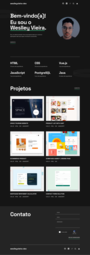
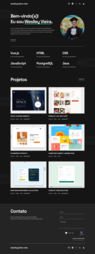
-fix images and description

diff --git a/code/src/components/Header.vue b/code/src/components/Header.vue
@@ -4,26 +4,52 @@
   <header>
     <span>weslleyvieira-dev</span>
     <div class="socials">
-      <a href="https://github.com/weslleyvieira-dev" target="_blank">
-        <img src="/assets/icons/github.svg" alt="GitHub" />
+      <a
+        href="https://github.com/weslleyvieira-dev"
+        target="_blank"
+        draggable="false"
+      >
+        <img src="/assets/icons/github.svg" alt="GitHub" draggable="false" />
       </a>
-      <a href="https://www.linkedin.com/in/weslleyvieira-dev/" target="_blank">
-        <img src="/assets/icons/linkedin.svg" alt="LinkedIn" />
+      <a
+        href="https://www.linkedin.com/in/weslleyvieira-dev/"
+        target="_blank"
+        draggable="false"
+      >
+        <img
+          src="/assets/icons/linkedin.svg"
+          alt="LinkedIn"
+          draggable="false"
+        />
       </a>
       <a
         href="https://www.frontendmentor.io/profile/weslleyvieira-dev"
         target="_blank"
+        draggable="false"
       >
-        <img src="/assets/icons/frontend-mentor.svg" alt="Frontend Mentor" />
+        <img
+          src="/assets/icons/frontend-mentor.svg"
+          alt="Frontend Mentor"
+          draggable="false"
+        />
       </a>
       <a
         href="https://www.codecademy.com/profiles/weslleyvieira-dev"
         target="_blank"
+        draggable="false"
       >
-        <img src="/assets/icons/codecademy.svg" alt="Codecademy" />
+        <img
+          src="/assets/icons/codecademy.svg"
+          alt="Codecademy"
+          draggable="false"
+        />
       </a>
-      <a href="https://vercel.com/weslleyvieira-projects" target="_blank">
-        <img src="/assets/icons/vercel.svg" alt="Vercel" />
+      <a
+        href="https://vercel.com/weslleyvieira-projects"
+        target="_blank"
+        draggable="false"
+      >
+        <img src="/assets/icons/vercel.svg" alt="Vercel" draggable="false" />
       </a>
     </div>
   </header>
@@ -59,6 +85,7 @@ header span {
 
 .socials a:hover,
 .socials img:hover {
-  filter: brightness(0) saturate(100%) invert(77%) sepia(21%) saturate(1073%) hue-rotate(98deg) brightness(95%) contrast(92%);
+  filter: brightness(0) saturate(100%) invert(77%) sepia(21%) saturate(1073%)
+    hue-rotate(98deg) brightness(95%) contrast(92%);
 }
 </style>

diff --git a/code/src/App.vue b/code/src/App.vue
@@ -17,14 +17,18 @@ import BackgroundPattern from "./components/BackgroundPattern.vue";
           Eu sou <span class="name-underline">Weslley Vieira</span>.
         </h1>
         <p class="text-body">
-          Sou um desenvolvedor front-end, focado em apresentar interfaces web
-          elegantes, intuitivas e totalmente acessíveis, unindo criatividade e
-          boas práticas para transformar ideias em experiências digitais que
-          encantam todos os usuários.
+          Sou um desenvolvedor front-end, formado em Engenharia de Software,
+          focado em criar interfaces web elegantes, intuitivas e totalmente
+          acessíveis. Uno criatividade e boas práticas para transformar ideias
+          em experiências digitais que encantam os usuários.
         </p>
         <a href="#contact" class="contact-button">CONTATO</a>
       </div>
-      <img class="presentation-pic" src="/assets/images/profile-pic.png" />
+      <img
+        class="presentation-pic"
+        src="/assets/images/profile-pic.jpg"
+        draggable="false"
+      />
     </div>
     <Skills />
     <Projects />
@@ -71,7 +75,6 @@ body {
 }
 
 .presentation-container p {
-  width: 85%;
   margin: 3rem 0;
 }
 
@@ -95,7 +98,6 @@ body {
 }
 
 .presentation-pic {
-  justify-self: flex-end;
   height: 23rem;
   width: 23rem;
   border-radius: 50%;

diff --git a/code/src/components/BackgroundPattern.vue b/code/src/components/BackgroundPattern.vue
@@ -1,10 +1,10 @@
 <script setup>
 const rings = [
-  { top: "5%", side: "left", offset: "0" },
-  { top: "25%", side: "right", offset: "0" },
-  { top: "45%", side: "left", offset: "0" },
-  { top: "65%", side: "right", offset: "0" },
-  { top: "85%", side: "left", offset: "0" },
+  { top: "5%", side: "left"},
+  { top: "30%", side: "right"},
+  { top: "50%", side: "left"},
+  { top: "70%", side: "right"},
+  { top: "90%", side: "left"},
 ];
 </script>
 
@@ -15,7 +15,7 @@ const rings = [
       :key="i"
       class="ring"
       :class="ring.side"
-      :style="{ top: ring.top, [ring.side]: ring.offset }"
+      :style="{ top: ring.top, [ring.side]: 0 }"
     />
   </div>
 </template>
